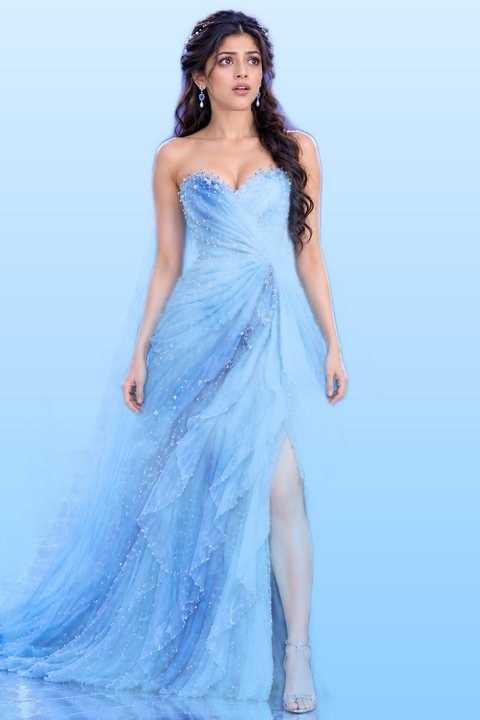
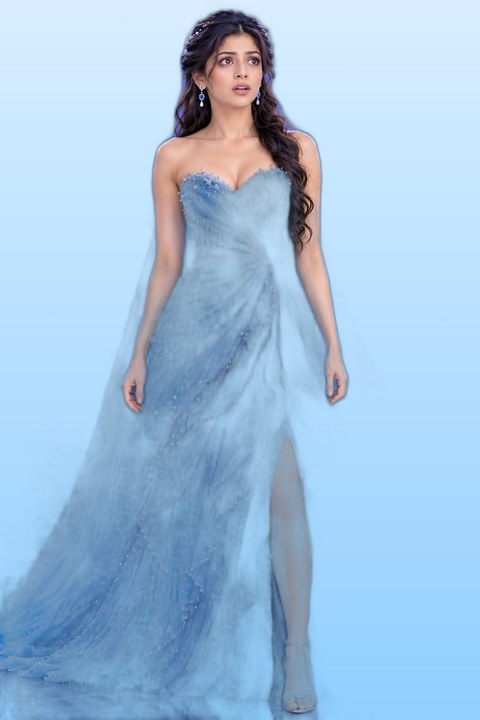
Restore clean static AURA reference; quarantine failed animation experiments

diff --git a/public/aura/index.html b/public/aura/index.html
@@ -19,7 +19,7 @@
       <img id="talkImg" src="talk/base.jpg" alt="AURA in her blue dress" draggable="false">
       <div class="statepill" id="statePill">Ready</div>
     </div>
-    <p class="stage-note">AURA in her blue dress on the SKY Studio background. Her eyes blink, her mouth opens while she speaks, and her expression shifts a little (smile, concern, thinking) to match her own reply tone - <b>basic 2D image warps on your reference photo, not real lip sync or a rigged character</b>, and not the full expressive character from your example yet. The 360&deg; video view and the fantasy palace background were removed after your feedback.</p>
+    <p class="stage-note">AURA in her blue dress on the SKY Studio background - your reference photo with the background replaced; her face is unchanged. <b>Face and body animation is under development and is not shown until it meets the quality bar</b> - early attempts were not good enough to show. The 360&deg; video view and the fantasy palace background were removed after your feedback.</p>
   </section>
 
   <section class="chatcard">
@@ -61,8 +61,8 @@
     <h2>What AURA can do today</h2>
     <ul>
       <li><b>Chat for real</b> in Hindi or English - answers come live from an AI model, streamed as they are written. No hardcoded demo replies.</li>
-      <li><b>Speak and listen</b> - <b>browser-dependent, not yet tested on a real phone</b>: uses your browser's built-in voice, auto-picks Hindi or English, and adjusts tone slightly per reply. Tap-to-talk voice input; the mic runs only when you tap it. Please try it on your phone and tell us if the voice works.</li>
-      <li><b>Simple face animation</b> - blinking, mouth movement while speaking, and small expression changes matched to her reply tone. Basic 2D warps on her photo, honestly not lip sync or real facial rigging.</li>
+      <li><b>Speak and listen</b> - <b>browser-dependent, not yet tested on a real phone</b>: uses your browser's built-in voice, auto-picks Hindi or English, and adjusts tone slightly per reply. Tap-to-talk voice input; the mic runs only when you tap it. Real-phone testing remains pending.</li>
+      <li><b>Character animation: under development.</b> Blinking, expressions and lip movement are being built; early versions did not meet the quality bar, so this preview shows her real photo instead. No fake movement.</li>
       <li><b>Remember this conversation</b> in <b>your browser only</b> (you can clear it anytime).</li>
     </ul>
     <h2>AI providers</h2>
@@ -70,10 +70,10 @@
     <p class="tnote">Your messages go only to the provider shown as connected. Keys, when added, live as server-side Cloudflare secrets - never in the page. Free tiers have limits and can rate-limit; AURA will say so instead of failing silently.</p>
     <h2>Honest limits</h2>
     <ul>
-      <li><b>Full expressions, gestures and real lip sync (your example video's biggest feature): not implemented yet.</b> Blinking and mouth open/close are the first step on her real photo; a rigged animated AURA (smile, concern, hand gestures) is the next build.</li>
-      <li><b>Emotions are simple today.</b> Each reply carries a tone label describing AURA's own reply (happy, concerned, thinking...); the voice and her small expression change follow that label. It describes her answer, never a guess about your mood.</li>
+      <li><b>Full expressions, gestures and real lip sync (your example video's biggest feature): not implemented yet.</b> This preview uses a static reference photo. It has no blinking, mouth movement or gestures.</li>
+      <li><b>Emotions are voice-only today.</b> Each reply carries a tone label describing AURA's own reply (happy, concerned, thinking...) and the voice adjusts a little; her face does not change expression yet. The label describes her answer, never a guess about your mood.</li>
       <li><b>No agent actions yet.</b> She cannot browse the web, use files, or run tools today. Those abilities are planned, with your confirmation required before any real action.</li>
-      <li><b>Voice quality</b> depends on the browser's built-in voices - the best genuinely free option, but standard system voices, not a studio voice.</li>
+      <li><b>Voice quality</b> depends on the browser's built-in voices - standard system voices, not a studio voice or a match verified against your reference.</li>
     </ul>
   </section>
 </main>

diff --git a/public/aura/app.js b/public/aura/app.js
@@ -8,64 +8,14 @@ const providerSel = $("provider"), provState = $("provState"), provList = $("pro
 const stage = $("stage"), statePill = $("statePill");
 const talkImg = $("talkImg");
 
-/* ---------- lightweight talking view (preloaded stills, no continuous animation) ---------- */
-const SETS = {
-  neutral: { base: "talk/base.jpg", blink: "talk/blink.jpg", open1: "talk/open1.jpg", open2: "talk/open2.jpg", blinkOpen: "talk/blink_open2.jpg" },
-  smile:   { base: "talk/smile.jpg", open1: "talk/smile_open1.jpg", open2: "talk/smile_open2.jpg" },
-  concern: { base: "talk/concern.jpg", open1: "talk/concern_open1.jpg", open2: "talk/concern_open2.jpg" },
-  think:   { base: "talk/think.jpg", open1: "talk/think_open1.jpg", open2: "talk/think_open2.jpg" },
-};
-const TONE_SET = { happy: "smile", excited: "smile", playful: "smile", concerned: "concern", apologetic: "concern", thinking: "think" };
-for (const k in SETS.neutral) { const im = new Image(); im.src = SETS.neutral[k]; }
-function preloadSet(name) { for (const k in SETS[name]) { const im = new Image(); im.src = SETS[name][k]; } }
-
-let curSet = "neutral", talking = false, exprTimer = null;
-function exprFor(tone) { return TONE_SET[tone] || "neutral"; }
-function showExpr(name) {
-  curSet = name;
-  if (!talking) talkImg.src = SETS[name].base;
-}
-function showExprBrief(name, ms) {
-  if (name === "neutral") return;
-  preloadSet(name);
-  clearTimeout(exprTimer);
-  showExpr(name);
-  exprTimer = setTimeout(() => showExpr("neutral"), ms || 3500);
-}
-function show(key, ms, back) {
-  talkImg.src = (SETS[curSet][key]) || SETS.neutral[key] || SETS.neutral.base;
-  if (ms) setTimeout(() => { if (!talking) talkImg.src = SETS[curSet].base; }, ms);
-}
-function scheduleBlink() {
-  setTimeout(() => {
-    if (!talking) show("blink", 180);
-    scheduleBlink();
-  }, 2500 + Math.random() * 3500);
-}
-let mouthTimer = null;
-function setTalking(on) {
-  if (on === talking) return;
-  talking = on;
-  if (on) {
-    let flip = false;
-    mouthTimer = setInterval(() => {
-      const st = SETS[curSet];
-      talkImg.src = flip ? st.open2 : st.open1;
-      flip = !flip;
-    }, 230);
-  } else {
-    clearInterval(mouthTimer); mouthTimer = null;
-    talkImg.src = SETS[curSet].base;
-  }
-}
-scheduleBlink();
+/* ---------- character view: her real reference photo only ----------
+   Face animation is under development and intentionally not shown until it
+   meets the identity quality bar. */
 
 const STATE_LABEL = { idle: "Ready", thinking: "Thinking\u2026", speaking: "Speaking\u2026", listening: "Listening\u2026" };
 function setState(s) {
   stage.dataset.state = s;
   statePill.textContent = STATE_LABEL[s] || s;
-  if (s === "thinking") { preloadSet("think"); showExpr("think"); }
-  setTalking(s === "speaking");
 }
 
 /* ---------- helpers ---------- */
@@ -245,7 +195,6 @@ function speak(text, opts) {
 }
 function stopSpeak() {
   if (synth) synth.cancel();
-  setTalking(false);
   if (stage.dataset.state === "speaking") setState("idle");
 }
 $("stopSpeak").addEventListener("click", stopSpeak);
@@ -399,7 +348,6 @@ form.addEventListener("submit", async (e) => {
   history.push({ role: "assistant", text: sp.text, meta: m.textContent });
   saveHistory();
   if (gotError) setStatus(gotError, "warn");
-  if (sp.tone) showExprBrief(exprFor(sp.tone));
   if (!ttsToggle.checked) setState("idle");
   speak(sp.text, { tone: sp.tone });
 });
@@ -410,9 +358,6 @@ function splitTone(text) {
   if (m && TONES[m[1]]) return { tone: m[1], text: text.slice(m[0].length) };
   return { tone: null, text };
 }
-
-// preview test hook (no user data, view-only controls)
-window.__aura = { setTalking, showExpr, showExprBrief, exprFor, setState };
 
 renderHistory();
 loadProviders();
